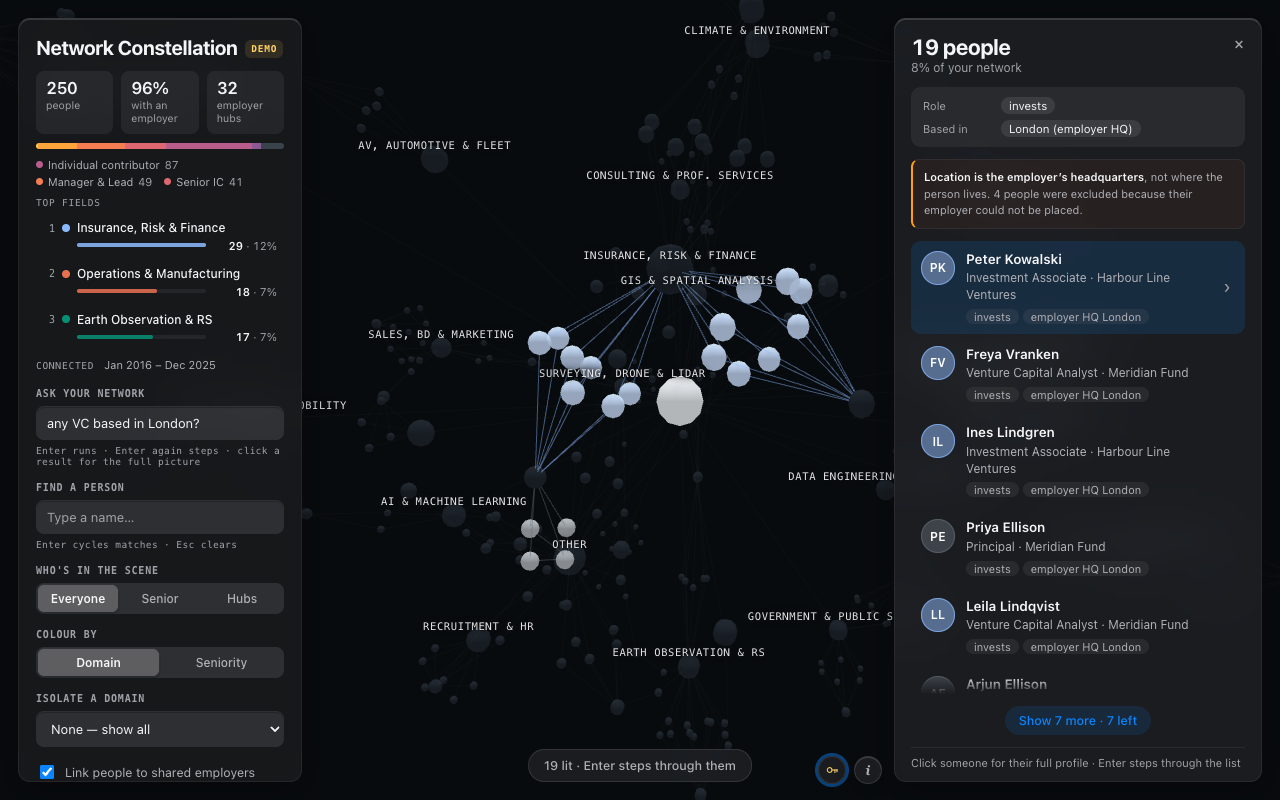
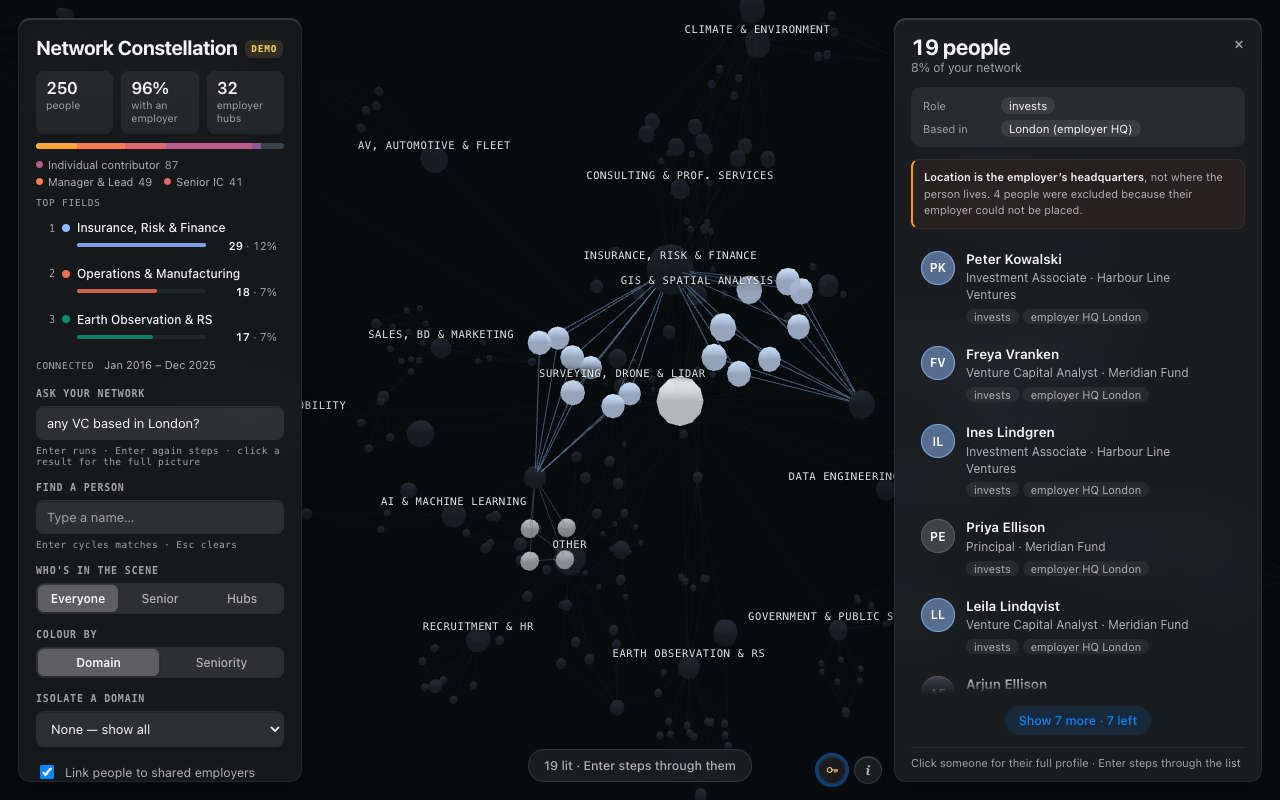
"Add your API key" asks for the key and does that one thing
Pressing "Add your API key to start" on a person's panel opened the
whole Settings sheet, whose big blue button was "Enrich 211 employers"
— the bulk employer lookup. Right after pasting a key it read as the
next step for the person you came from, and it is not.

Now a key link that knows what it was for opens the sheet key-only:
the key, what that one action sends and costs, and one button that
names it — "Save and enrich Freya", or "Save and look up Meridian
Fund" on an employer. The bulk lookup is not shown. Pressing the
button saves the key and runs exactly that action (a brief already
saved is shown free).

The full sheet, from the key button, is two labelled sections: "Your
API key" and "Where employers are based", which says it looks up every
employer at once, company names only, and is separate from enriching a
person. Its button reads "Look up N employers"; the scope reads
"Shared by 2+ / All" instead of "Hubs / All".

Also: the empty progress row ("– Cancel") showed before any run,
because a display rule overrode its hidden attribute; and Cancel is
hidden once a run has finished.

Checked with the mock: from a person, one research call and zero
employer calls; from an employer, exactly one name sent.

diff --git a/src/enrichui.js b/src/enrichui.js
@@ -9,7 +9,7 @@ import { prefs, KEY_STORAGE, allEmployers } from './store.js';
 import { employerList, estimate, enrichEmployers, enrichOne, normKey } from './enrich.js';
 import { LlmError, MODEL_EMPLOYERS } from './llm.js';
 
-export async function wireEnrich({ D, people, onEmployers, onKeyChange, say }) {
+export async function wireEnrich({ D, people, onEmployers, onKeyChange, onKeyReady, say }) {
   const keyEl = $('apiKey');
   const rememberEl = $('rememberKey');
   const runEl = $('enrichRun');
@@ -28,27 +28,64 @@ export async function wireEnrich({ D, people, onEmployers, onKeyChange, say }) {
   /* ---- the settings sheet ---- */
   const sheet = $('settings');
   const openBtn = $('openSettings');
-  // Panels drawn before a key existed say "add your API key"; when the sheet
-  // closes with a key newly added (or removed), they are told to redraw.
+  // Two ways in. The key button opens everything. "Add your API key" on a
+  // person or an employer opens only the key, with one button that says what
+  // happens next ("Save and enrich Freya") — so the bulk employer lookup is
+  // never the obvious next click for someone who came to enrich one person.
   let hadKey = false;
-  const openSheet = () => {
+  let then = null;          // { action, label, why } for a key-only opening
+  const keySave = $('keySave');
+  const keyWhy = $('keyWhy');
+  const defaultWhy = keyWhy.innerHTML;
+
+  const openSheet = (ctx = null) => {
     hadKey = Boolean(keyEl.value.trim());
+    then = ctx;
+    sheet.classList.toggle('key-only', Boolean(ctx));
+    $('settingsTitle').textContent = ctx ? 'Add your API key' : 'Settings';
+    keySave.hidden = !ctx;
+    if (ctx) {
+      keySave.textContent = ctx.label;
+      keyWhy.textContent = ctx.why;
+    } else {
+      keyWhy.innerHTML = defaultWhy;
+    }
     sheet.hidden = false;
     document.body.classList.add('sheet-up');
-    setTimeout(() => (keyEl.value ? $('enrichRun') : keyEl)?.focus(), 60);
+    setTimeout(() => (ctx || !keyEl.value ? keyEl : $('enrichRun'))?.focus(), 60);
   };
   const closeSheet = () => {
     sheet.hidden = true;
+    sheet.classList.remove('key-only');
     document.body.classList.remove('sheet-up');
     openBtn?.focus();
+    // Panels drawn before a key existed say "add your API key": redraw them.
     if (Boolean(keyEl.value.trim()) !== hadKey) onKeyChange?.();
   };
-  openBtn?.addEventListener('click', openSheet);
+  openBtn?.addEventListener('click', () => openSheet());
   $('settingsClose')?.addEventListener('click', closeSheet);
   $('settingsScrim')?.addEventListener('click', closeSheet);
   addEventListener('keydown', e => { if (e.key === 'Escape' && !sheet.hidden) closeSheet(); });
-  // any "add a key" link anywhere on the page opens the same sheet
-  document.addEventListener('click', e => { if (e.target.closest('.open-settings')) openSheet(); });
+
+  // Any "add a key" link on the page opens the sheet; one that names what it
+  // was for (data-then) opens it key-only, and runs that once the key is in.
+  document.addEventListener('click', e => {
+    const link = e.target.closest('.open-settings');
+    if (!link) return;
+    const { then: action, label, why } = link.dataset;
+    openSheet(action ? { action, label: label || 'Save key', why: why || '' } : null);
+  });
+
+  keySave.addEventListener('click', () => {
+    const key = keyEl.value.trim();
+    if (!key) { keyEl.focus(); say?.('Paste an API key first'); return; }
+    if (rememberEl.checked) prefs.set(KEY_STORAGE, key);
+    const action = then?.action;
+    closeSheet();
+    if (action) onKeyReady?.(action);
+  });
+  keyEl.addEventListener('keydown', e => { if (e.key === 'Enter' && !keySave.hidden) keySave.click(); });
+
   const markKey = () => openBtn?.classList.toggle('has-key', Boolean(keyEl.value.trim()));
   keyEl.addEventListener('input', markKey);
 
@@ -74,7 +111,7 @@ export async function wireEnrich({ D, people, onEmployers, onKeyChange, say }) {
       ? `~$${est.dollars.toFixed(2)} · ~${est.seconds < 90 ? est.seconds + 's' : Math.round(est.seconds / 60) + ' min'}`
       : '';
     runEl.disabled = todo.length === 0;
-    runEl.textContent = todo.length ? `Enrich ${fmt(todo.length)} employers` : 'Nothing to enrich';
+    runEl.textContent = todo.length ? `Look up ${fmt(todo.length)} employers` : 'All employers looked up';
     knownEl.textContent = employers.size
       ? `${fmt(employers.size)} employers already labelled, kept in this browser.`
       : '';
@@ -110,6 +147,7 @@ export async function wireEnrich({ D, people, onEmployers, onKeyChange, say }) {
     controller = new AbortController();
     runEl.disabled = true;
     progressEl.hidden = false;
+    cancelEl.hidden = false;
     barEl.style.width = '0%';
     statEl.textContent = `0 / ${fmt(jobs.length)}`;
 
@@ -144,7 +182,8 @@ export async function wireEnrich({ D, people, onEmployers, onKeyChange, say }) {
       console.error(err);
     } finally {
       controller = null;
-      progressEl.hidden = false;
+      progressEl.hidden = false;     // the result stays; there is nothing left to cancel
+      cancelEl.hidden = true;
       refresh();
     }
   });

diff --git a/index.html b/index.html
@@ -241,25 +241,31 @@ npm run dev</code></pre>
       <button type="button" class="d-close" id="settingsClose" aria-label="Close">&times;</button>
     </div>
     <div class="sheet-body">
-    <div class="enrich-body">
-      <p class="ehelp">Your export has no location and no company type, so &ldquo;any VC in SF?&rdquo; can&rsquo;t be answered from it. With a key, Claude labels employers with headquarters and organisation type, and can enrich a person&rsquo;s profile from the public web when you ask.</p>
+    <section class="enrich-body" id="keySection" aria-labelledby="keyHead">
+      <h2 class="sheet-h" id="keyHead">Your API key</h2>
+      <p class="ehelp" id="keyWhy">Everything so far works without one. With a key, Claude can place employers, read your questions more closely and research a person on the public web &mdash; each only when you ask.</p>
       <label class="elab" for="apiKey">Anthropic API key</label>
       <input type="password" id="apiKey" placeholder="sk-ant-…" autocomplete="off" spellcheck="false">
       <label class="chk"><input type="checkbox" id="rememberKey"> Remember on this device</label>
+      <button type="button" class="primary" id="keySave" hidden>Save key</button>
       <p class="ehelp small">Sent to Anthropic: employer names and the text of your questions. A person&rsquo;s name, headline and employer only when you press <em>Enrich profile</em> on their panel. Never emails or profile links. Everything is saved in this browser, so nothing is paid for twice. Use a key with a spend limit.</p>
-      <span class="lab">Scope</span>
-      <div class="seg" id="scopeSeg" role="group" aria-label="Enrichment scope">
-        <button type="button" data-scope="hubs" aria-pressed="true">Hubs</button>
+    </section>
+    <section class="enrich-body" id="employerSection" aria-labelledby="empHead">
+      <h2 class="sheet-h" id="empHead">Where employers are based</h2>
+      <p class="ehelp">Your export has no location and no company type, so &ldquo;any VC in SF?&rdquo; can&rsquo;t be answered from it. This looks up every employer at once &mdash; company names only, no people &mdash; so location questions work. It is separate from enriching a person.</p>
+      <span class="lab">Which employers</span>
+      <div class="seg" id="scopeSeg" role="group" aria-label="Which employers">
+        <button type="button" data-scope="hubs" aria-pressed="true">Shared by 2+</button>
         <button type="button" data-scope="all" aria-pressed="false">All</button>
       </div>
       <div class="erow"><span id="scopeCount">—</span><span id="scopeCost">—</span></div>
-      <button type="button" class="primary" id="enrichRun">Enrich employers</button>
+      <button type="button" class="primary" id="enrichRun">Look up employers</button>
       <div id="enrichProgress" hidden>
         <div class="ebar"><span id="enrichBarFill"></span></div>
         <div class="erow"><span id="enrichStat">—</span><button type="button" class="linky" id="enrichCancel">Cancel</button></div>
       </div>
       <p class="ehelp small" id="enrichKnown"></p>
-    </div>
+    </section>
     </div>
   </div>
 </div>

diff --git a/src/detail.js b/src/detail.js
@@ -77,7 +77,9 @@ export function createDetail({ world, D, people, ui, getEmployers, getKey, enric
     return sec('Employer',
       `<span class="d-note">Not labelled yet. ${can
         ? 'One name is sent to Claude; well under a cent.'
-        : '<button type="button" class="linky open-settings">Add a key</button> to look it up.'}</span>` +
+        : `<button type="button" class="linky open-settings" data-then="label-employer" ` +
+          `data-label="Save and look up ${esc(name)}" ` +
+          `data-why="Looking up ${esc(name)} sends only the employer’s name to Anthropic, no people. Well under a cent, saved afterwards.">Add a key</button> to look it up.`}</span>` +
       (can ? `<button type="button" class="primary d-label" data-name="${esc(name)}">Label ${esc(name)}</button>` : ''));
   }
 
@@ -204,7 +206,9 @@ export function createDetail({ world, D, people, ui, getEmployers, getKey, enric
       el.innerHTML =
         `<div class="de-head">${SPARK}<span>Enrich this profile</span></div>` +
         `<p class="de-lead">Get a short brief on who ${esc(firstName(p))} is, what they work on and how to open a conversation, written by Claude from the public web.</p>` +
-        `<button type="button" class="primary de-btn open-settings">Add your API key to start</button>`;
+        `<button type="button" class="primary de-btn open-settings" data-then="enrich-person" ` +
+          `data-label="Save and enrich ${esc(firstName(p))}" ` +
+          `data-why="Enriching ${esc(firstName(p))} sends their name, headline and employer to Anthropic, which searches the public web and writes a short brief. About $0.10–$0.30, saved afterwards. Nothing else is sent.">Add your API key to start</button>`;
       return;
     }
     el.innerHTML =
@@ -401,6 +405,20 @@ export function createDetail({ world, D, people, ui, getEmployers, getKey, enric
     },
     close,
     rerender,
+    /**
+     * Run what an "add your key" button was pressed for, once the key is in:
+     * enrich the person on the panel, or look up the employer on it. Only
+     * ever called from the key sheet's own button, which names the action.
+     */
+    runAfterKey(action) {
+      if (!current || panel.hidden) return;
+      if (action === 'enrich-person' && current.kind === 'person') {
+        const el = $('dResearch');
+        if (el) fetchResearch(current.p, el, false);
+      } else if (action === 'label-employer') {
+        body.querySelector('.d-label')?.click();
+      }
+    },
     get open() { return !panel.hidden; }
   };
 }

diff --git a/src/styles.css b/src/styles.css
@@ -1169,6 +1169,7 @@ body.answering #meta { display: none; }
 .ebar { height: 6px; border-radius: 2px; background: var(--hair-2); overflow: hidden; }
 .ebar span { display: block; height: 100%; width: 0; background: var(--hit-gold); transition: width 0.25s; }
 #enrichProgress { display: flex; flex-direction: column; gap: 7px; }
+#enrichProgress[hidden] { display: none; }
 
 /* the location caveat, in the answer */
 #askCaveat {
@@ -1410,6 +1411,18 @@ body.detailing #answer { display: none; }
 }
 .sheet-body { margin-top: 6px; }
 .sheet-body .enrich-body { padding: 0; }
+.sheet-body .enrich-body + .enrich-body { margin-top: 18px; padding-top: 16px; border-top: 1px solid var(--hair-2); }
+.sheet-h {
+  margin: 0 0 2px;
+  font-family: var(--display);
+  font-size: 15px;
+  font-weight: 650;
+  letter-spacing: -0.01em;
+  color: var(--ink);
+}
+/* Arriving from one person or one employer: only the key, and that one action. */
+#settings.key-only #employerSection,
+#settings.key-only #keyHead { display: none; }
 body.sheet-up { overflow: hidden; }
 
 @keyframes nc-fade { from { opacity: 0; } to { opacity: 1; } }

diff --git a/src/main.js b/src/main.js
@@ -216,7 +216,9 @@ async function start(found, landing, existing) {
     D, people, say: ui.say,
     onEmployers: m => ask.setEmployers(m),
     // an open profile drawn before the key existed still says "add your key"
-    onKeyChange: () => detail?.rerender()
+    onKeyChange: () => detail?.rerender(),
+    // "Save and enrich Freya": the one action the key was added for
+    onKeyReady: action => detail?.runAfterKey(action)
   });
   ask.enrichment = enrichment;
 

diff --git a/docs/tutorial.md b/docs/tutorial.md
@@ -20,7 +20,7 @@ Firefox or Safari. Phones work too; see [the end](#on-a-phone).
 8. [Open a profile](#8-open-a-profile)
 9. [Add an API key](#9-add-an-api-key-optional)
 10. [Enrich a profile](#10-enrich-a-profile)
-11. [Enrich employers, then ask about a place](#11-enrich-employers-then-ask-about-a-place)
+11. [Look up employers, then ask about a place](#11-look-up-employers-then-ask-about-a-place)
 12. [Your data: replacing and forgetting it](#12-your-data)
 
 ---
@@ -181,6 +181,12 @@ Open **Settings** with the key button at the bottom right and paste a key from
 **Remember on this device** only if you want the key kept in this browser. Use a
 key with a spend limit.
 
+Settings has two parts: **Your API key**, and **Where employers are based**,
+which looks up all your employers at once (step 11). They are separate. If you
+came from **Add your API key to start** on a person's panel, the sheet shows
+only the key, and one button: **Save and enrich** that person. Nothing else
+runs.
+
 The key is sent only to Anthropic, straight from your browser. What else goes
 with it is listed in the panel and in the README's [privacy section](../README.md#privacy).
 
@@ -205,13 +211,14 @@ could be matched with confidence, so nothing is attributed to them. On a real
 person, a namesake is the failure to watch for. The prompt treats a confident
 brief about the wrong person as the worst possible outcome.
 
-## 11. Enrich employers, then ask about a place
+## 11. Look up employers, then ask about a place
 
-![Asking "any VC based in London?" after the employers were enriched](img/location.png)
+![Asking "any VC based in London?" after the employers were looked up](img/location.png)
 
-In **Settings**, choose a **scope**. **Hubs** covers the employers two or more
-people share, and costs about $0.06 for a 10,000-person network. **All**
-covers every employer named, about $0.70. Then press **Enrich employers**.
+In **Settings → Where employers are based**, choose which employers. **Shared
+by 2+** covers the employers two or more people share, and costs about $0.06
+for a 10,000-person network. **All** covers every employer named, about $0.70.
+Then press **Look up employers**. Only company names are sent, never people.
 Results are saved in this browser, so nothing is paid for twice. **Cancel**
 keeps whatever has already been done.
 

diff --git a/README.md b/README.md
@@ -59,7 +59,7 @@ With your own Anthropic key, **three things can be sent to Anthropic, and
 nothing else**:
 
 1. **Employer names**, to look up headquarters and organisation type. Sent when
-   you press **Enrich employers**, or **Label** on an employer.
+   you press **Look up employers** in Settings, or **Label** on one employer.
 2. **The text of your questions**, each one you ask while a key is set, so
    Claude can read it more closely. Anything it adds is marked in the answer.
 3. **One person's name, headline and employer**, only when you press **Enrich
